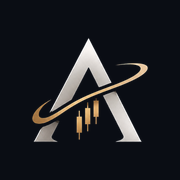
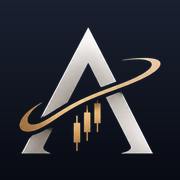
v1.71.0 : comptes en haut du tableau de bord, nouvelle icône de l'app mobile
Claude-Session: https://claude.ai/code/session_01B4iGHX2Guvu6yXAWU1kgFU

Changed region(s): [[0.0, 0.0, 1.0, 0.8611]]

diff --git a/static/index.html b/static/index.html
@@ -187,6 +187,19 @@
   .sub-add { background: none; border: 1px dashed var(--line); color: var(--muted); border-radius: 8px; padding: 7px 9px; text-align: left; font-size: 13px; }
   .sub-add:hover { color: var(--gold); border-color: var(--gold); }
   .acc.active.dimmed { background: transparent; border-color: var(--line); }
+  /* comptes en haut du tableau de bord */
+  .acc-bar { display: flex; gap: 8px; align-items: stretch; overflow-x: auto; margin: -4px 0 18px; padding-bottom: 4px; scrollbar-width: thin; }
+  .acc-bar[hidden] { display: none; }
+  .acc-bar .acc-list { flex-direction: row; gap: 8px; }
+  .acc-bar .acc { flex: 0 0 auto; min-width: 150px; max-width: 220px; flex-direction: column; align-items: flex-start; justify-content: center; gap: 3px;
+    background: var(--panel); border: 1px solid var(--line); padding: 10px 28px 10px 13px; border-radius: 12px; }
+  .acc-bar .acc:hover { background: var(--panel-2); }
+  .acc-bar .acc.active { background: var(--gold-soft); border-color: rgba(196,138,69,.55); }
+  .acc-bar .acc > div:first-child { font-weight: 600; font-size: 14px; white-space: nowrap; overflow: hidden; text-overflow: ellipsis; max-width: 100%; }
+  .acc-bar .acc small { white-space: nowrap; overflow: hidden; text-overflow: ellipsis; max-width: 100%; }
+  .acc-bar .acc .bal { font-size: 14px; color: var(--fg); font-weight: 600; }
+  .acc-bar .acc.active .bal { color: var(--gold); }
+  .acc-bar .sub-add { flex: 0 0 auto; display: flex; align-items: center; padding: 0 16px; border-radius: 12px; white-space: nowrap; }
   .nav button { text-align: left; background: transparent; border: 1px solid transparent; color: var(--fg); border-radius: 9px;
     padding: 9px 10px; display: flex; gap: 10px; align-items: center; }
   .nav button:hover { background: var(--panel-2); }
@@ -819,6 +832,7 @@
   body.locked .nav button:not(.nav-offres) .lock { display: inline-flex; }
   body.locked .nav button:not(.nav-offres) .chev { display: none; }
   body.locked #accSub { display: none !important; }
+  @media (max-width: 760px) { .acc-bar { margin: 0 -12px 14px; padding: 0 12px 4px; scrollbar-width: none; } .acc-bar .acc { min-width: 140px; } }
   .nav-offres .ic { color: var(--gold); }
   .empty-state { text-align: center; padding: 80px 20px; color: var(--muted); }
   .empty-state h2 { color: var(--fg); margin-bottom: 6px; }
@@ -1058,11 +1072,7 @@
     </div>
     <button type="button" class="login-btn" id="loginKeyBtn" title="Connexion avec ta clé de licence"><svg width="17" height="17" viewBox="0 0 20 20" fill="none"><circle cx="7" cy="12.5" r="4" stroke="currentColor" stroke-width="1.7"/><path d="M10 9.6l6.5-6.5M14 5.6l2 2M12.4 7.2l1.6 1.6" stroke="currentColor" stroke-width="1.7" stroke-linecap="round"/></svg><span class="lk-t" id="loginKeyTxt">Connexion</span></button>
     <nav class="nav" id="nav">
-      <button data-page="dash" class="active"><span class="ic">▦</span><span class="nav-t">Tableau de bord</span><span class="lock" title="Abonnement requis"><svg width="12" height="13" viewBox="0 0 12 13" fill="none"><rect x="1.5" y="5.5" width="9" height="7" rx="1.6" stroke="currentColor" stroke-width="1.3"/><path d="M3.6 5.5V3.8a2.4 2.4 0 0 1 4.8 0v1.7" stroke="currentColor" stroke-width="1.3"/></svg></span><span class="chev" id="accToggle" title="Afficher / masquer les comptes">▾</span></button>
-      <div class="sub" id="accSub">
-        <div class="acc-list" id="accList"></div>
-        <button class="sub-add" id="addBtn">+ Ajouter un compte</button>
-      </div>
+      <button data-page="dash" class="active"><span class="ic">▦</span><span class="nav-t">Tableau de bord</span><span class="lock" title="Abonnement requis"><svg width="12" height="13" viewBox="0 0 12 13" fill="none"><rect x="1.5" y="5.5" width="9" height="7" rx="1.6" stroke="currentColor" stroke-width="1.3"/><path d="M3.6 5.5V3.8a2.4 2.4 0 0 1 4.8 0v1.7" stroke="currentColor" stroke-width="1.3"/></svg></span></button>
       <button data-page="journal"><span class="ic">✎</span><span class="nav-t">Journal de trading</span><span class="lock" title="Abonnement requis"><svg width="12" height="13" viewBox="0 0 12 13" fill="none"><rect x="1.5" y="5.5" width="9" height="7" rx="1.6" stroke="currentColor" stroke-width="1.3"/><path d="M3.6 5.5V3.8a2.4 2.4 0 0 1 4.8 0v1.7" stroke="currentColor" stroke-width="1.3"/></svg></span></button>
       <button data-page="eco"><span class="ic">◷</span><span class="nav-t">Calendrier économique</span><span class="lock" title="Abonnement requis"><svg width="12" height="13" viewBox="0 0 12 13" fill="none"><rect x="1.5" y="5.5" width="9" height="7" rx="1.6" stroke="currentColor" stroke-width="1.3"/><path d="M3.6 5.5V3.8a2.4 2.4 0 0 1 4.8 0v1.7" stroke="currentColor" stroke-width="1.3"/></svg></span></button>
       <button data-page="share"><span class="ic">⇪</span><span class="nav-t">Partager mes résultats</span><span class="lock" title="Abonnement requis"><svg width="12" height="13" viewBox="0 0 12 13" fill="none"><rect x="1.5" y="5.5" width="9" height="7" rx="1.6" stroke="currentColor" stroke-width="1.3"/><path d="M3.6 5.5V3.8a2.4 2.4 0 0 1 4.8 0v1.7" stroke="currentColor" stroke-width="1.3"/></svg></span></button>
@@ -1096,6 +1106,10 @@
         <button class="btn" id="refreshBtn">↻ Actualiser</button>
       </div>
     </header>
+    <div class="acc-bar" id="accSub">
+      <div class="acc-list" id="accList"></div>
+      <button class="sub-add" id="addBtn" type="button">+ Ajouter un compte</button>
+    </div>
     <div id="updateBar"></div>
     <div id="notices"></div>
 
@@ -1875,15 +1889,15 @@ function renderAccounts() {
 // déplacer un compte dans la colonne de gauche pour changer l'ordre
 $('#accList').addEventListener('pointerdown', e => {
   const btn = e.target.closest('.acc[data-login]'); if (!btn || e.button !== 0 || e.target.closest('.acc-x') || btn.dataset.editing) return;
-  const list = $('#accList'), y0 = e.clientY; let started = false;
+  const list = $('#accList'), x0 = e.clientX; let started = false;
   const move = ev => {
     if (!started) {
-      if (Math.abs(ev.clientY - y0) < 6) return;
+      if (Math.abs(ev.clientX - x0) < 6) return;
       started = true; accDragging = true; btn.classList.add('acc-drag'); document.body.classList.add('q-sorting');
     }
     ev.preventDefault();
     const rows = [...list.querySelectorAll('.acc[data-login]')].filter(r => r !== btn);
-    const after = rows.find(r => { const b = r.getBoundingClientRect(); return ev.clientY < b.top + b.height / 2; });
+    const after = rows.find(r => { const b = r.getBoundingClientRect(); return ev.clientX < b.left + b.width / 2; });
     if (after) { if (btn.nextSibling !== after) list.insertBefore(btn, after); }
     else if (rows.length && rows[rows.length - 1].nextSibling !== btn) list.insertBefore(btn, rows[rows.length - 1].nextSibling);
   };
@@ -3680,6 +3694,7 @@ function showPage() {
   $('#share').hidden = state.page !== 'share';
   $('#copier').hidden = state.page !== 'copier';
   $('#mobile').hidden = state.page !== 'mobile';
+  $('#accSub').hidden = state.page !== 'dash' || !hasAcc;
   $('#cpNav').hidden = state.page !== 'copier';
   if (['offres', 'abo', 'share', 'copier', 'mobile'].includes(state.page)) { $('#content').hidden = true; $('#journal').hidden = true; }
   document.querySelector('header.top').style.display = ['eco', 'offres', 'abo', 'share', 'copier', 'mobile'].includes(state.page) ? 'none' : '';
@@ -3752,12 +3767,6 @@ document.querySelectorAll('#nav > button').forEach(b => b.onclick = ev => {
   state.page = b.dataset.page; state.jTrade = null;
   showPage(); window.scrollTo(0, 0);
 });
-try { if (localStorage.getItem('accSubClosed') === '1') { $('#accSub').hidden = true; $('#accToggle').classList.add('closed'); } } catch (e) {}
-$('#accToggle').onclick = ev => {
-  ev.stopPropagation();
-  const sub = $('#accSub'); sub.hidden = !sub.hidden; $('#accToggle').classList.toggle('closed', sub.hidden);
-  try { localStorage.setItem('accSubClosed', sub.hidden ? '1' : '0'); } catch (e) {}
-};
 
 // ---------- journal de trading ----------
 const el = (tag, cls, text) => { const e = document.createElement(tag); if (cls) e.className = cls; if (text !== undefined) e.textContent = text; return e; };

diff --git a/relais/worker.js b/relais/worker.js
@@ -15,6 +15,9 @@ export default {
     if (action === 'mobile-register' && request.method === 'POST') return mobileRegister(request, env, cors);
     if (action === 'mobile-snap' && request.method === 'POST') return mobileSnap(request, env, url, cors);
     const RELAY = ['check', 'notify', 'portal', 'change', 'extra', 'activate', 'validate', 'deactivate', 'mobile-register', 'mobile-snap'];
+    // icônes de l'app : demandées par le téléphone sans cookie (écran d'accueil)
+    if (/^\/static\/pwa-[\w-]+\.png$/.test(url.pathname) || url.pathname === '/apple-touch-icon.png' || url.pathname === '/apple-touch-icon-precomposed.png')
+      return staticFile(url.pathname.startsWith('/static/') ? url.pathname : '/static/pwa-180.png');
     const qid = url.searchParams.get('am');
     if (qid && MOB_ID.test(qid)) return mobileProxy(request, env, qid, true);
     const cid = cookieOf(request, 'am');

diff --git a/app.py b/app.py
@@ -4999,7 +4999,7 @@ def pwa_manifest():
             "background_color": "#0a0d14", "theme_color": "#0a0d14", "lang": ui_lang(),
             "icons": [{"src": "/static/pwa-192.png", "sizes": "192x192", "type": "image/png", "purpose": "any"},
                       {"src": "/static/pwa-512.png", "sizes": "512x512", "type": "image/png", "purpose": "any"},
-                      {"src": "/static/pwa-512.png", "sizes": "512x512", "type": "image/png", "purpose": "maskable"}]}
+                      {"src": "/static/pwa-mask-512.png", "sizes": "512x512", "type": "image/png", "purpose": "maskable"}]}
     resp = make_response(json.dumps(body))
     resp.headers["Content-Type"] = "application/manifest+json"
     return resp
